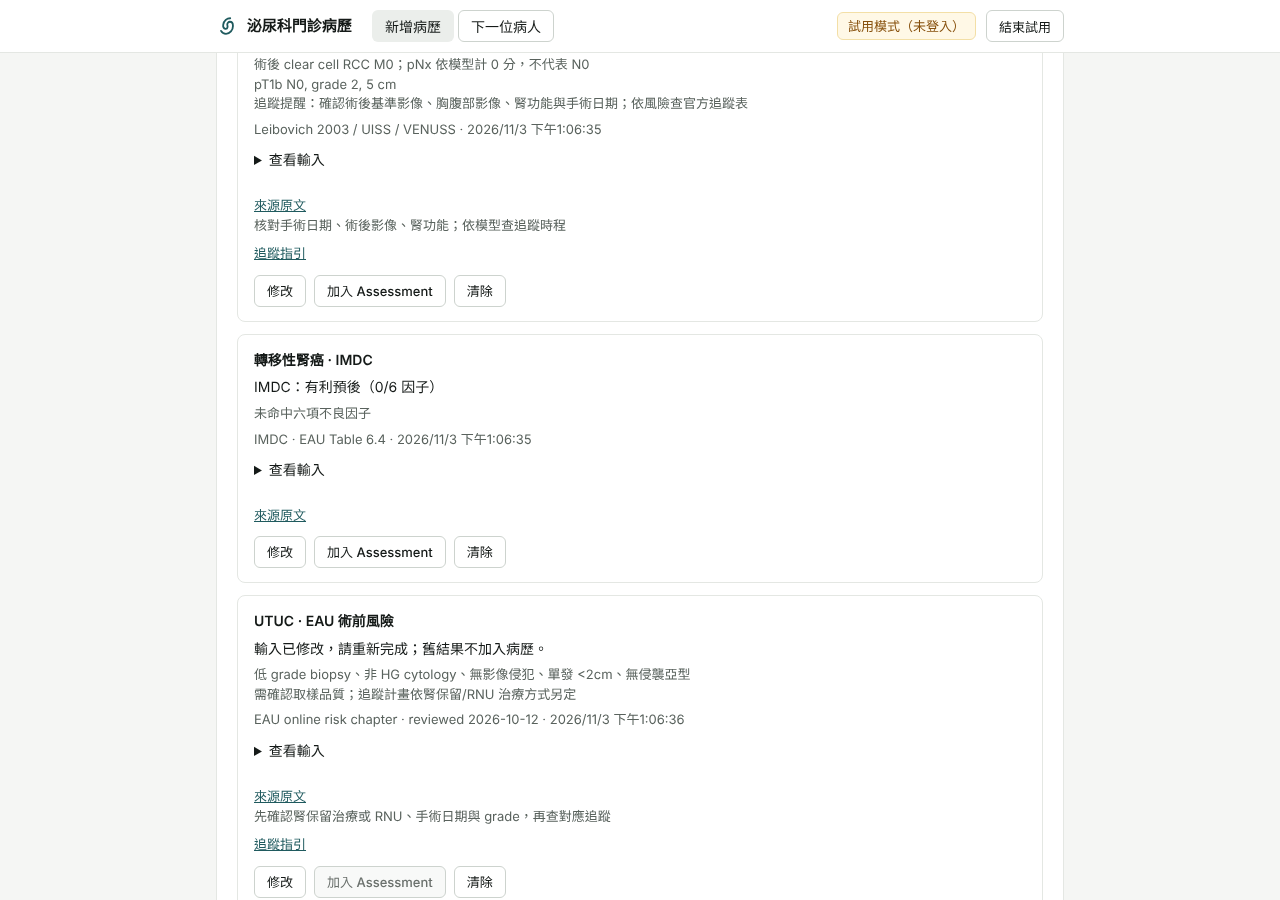
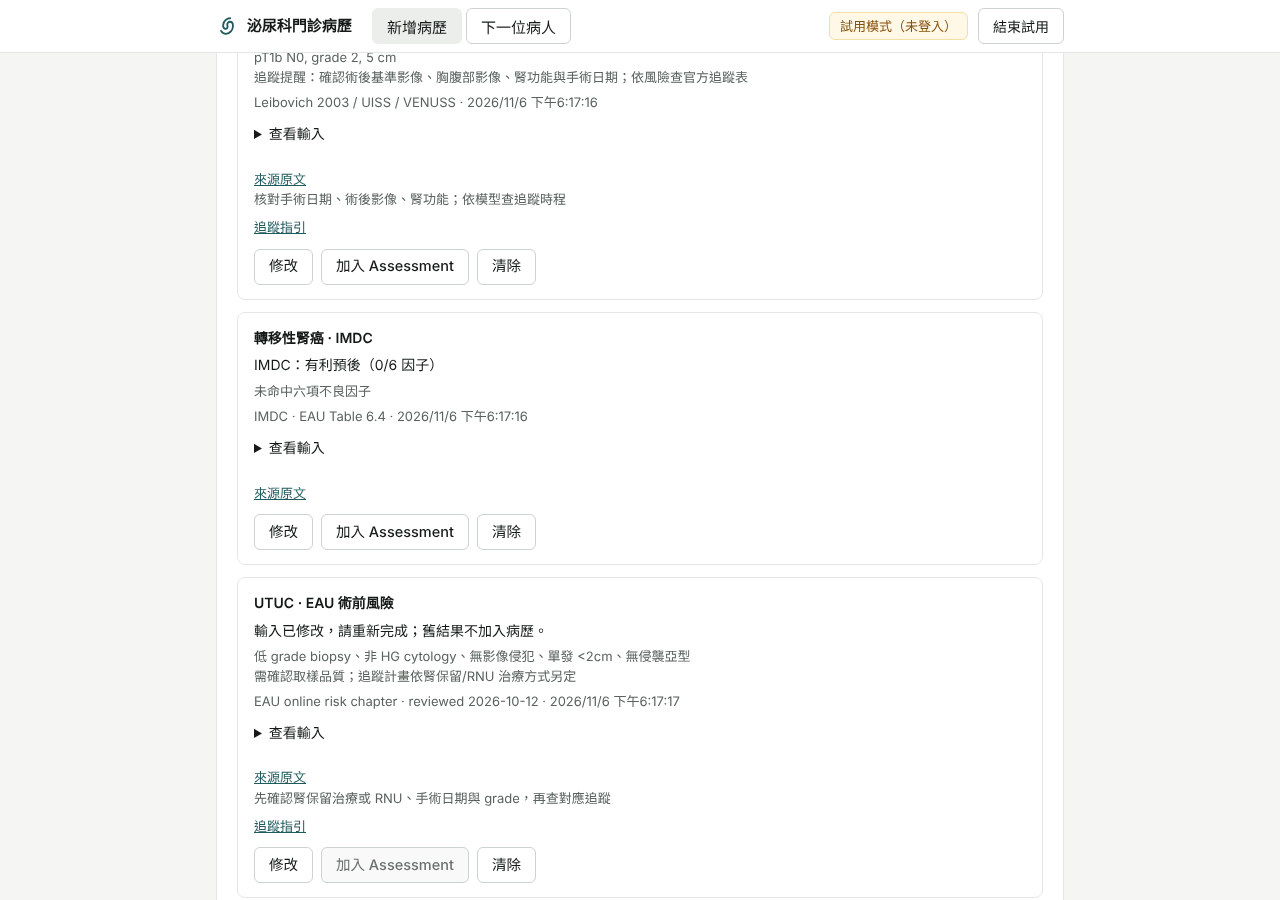
Enlarge button text and lay questionnaire answers on an even grid
- Buttons read about 1-1.5px larger with matching heights: top-bar tabs
  and logout 15/14px at 36px, chief-complaint cards 15.5px, questionnaire
  answers 14.5px, quick-add chips 14.5px, secondary actions 15px at 42px,
  Generate 17px at 52px, login 16px, risk-tool toolbar/cards 14.5px and
  drawer buttons 15.5px.
- Questionnaire answers sit on a 3-column grid (2 on phones) so a sixth
  option no longer wraps onto a line of its own.

Claude-Session: https://claude.ai/code/session_01BUFbyzRua7jEEtjg83DoNz

Changed region(s): [[0.1875, 0.0, 0.8125, 1.0], [0.625, 0.0, 0.8438, 0.0622]]

diff --git a/index.html b/index.html
@@ -107,7 +107,7 @@
   .tab-switch{display:flex;gap:4px;flex-wrap:wrap;}
   .tab-btn{
     background:none;border:1px solid transparent;border-radius:var(--radius-control);
-    height:32px;padding:0 12px;font-size:14px;font-weight:500;color:var(--muted);
+    height:36px;padding:0 14px;font-size:15px;font-weight:500;color:var(--muted);
     transition:background .12s, color .12s;
   }
   .tab-btn:hover{background:var(--raised);color:var(--text);}
@@ -117,14 +117,14 @@
     display:inline-flex;padding:3px;background:var(--raised);border:1px solid var(--border);
     border-radius:calc(var(--radius-control) + 3px);
   }
-  .section .tab-btn{height:32px;}
+  .section .tab-btn{height:36px;}
   .section .tab-btn.active{background:var(--surface);border-color:var(--border);color:var(--accent-ink);}
   #topbar-reset-btn{border-color:var(--control);color:var(--text);background:var(--surface);}
   #topbar-reset-btn:hover{background:var(--raised);}
 
   .logout-btn{
     background:var(--surface);border:1px solid var(--control);border-radius:var(--radius-control);
-    height:32px;padding:0 12px;font-size:13px;color:var(--text);flex:0 0 auto;
+    height:36px;padding:0 14px;font-size:14px;color:var(--text);flex:0 0 auto;
     transition:background .12s, color .12s, border-color .12s;
   }
   .logout-btn:hover{background:var(--raised);}
@@ -226,11 +226,11 @@
   .q-block{border-top:1px solid var(--rule);padding-top:14px;margin-top:14px;}
   .q-block:first-child{border-top:none;margin-top:0;padding-top:0;}
   .q-text{font-size:14px;margin-bottom:8px;line-height:1.45;}
-  .opt-row{display:flex;flex-wrap:wrap;gap:6px;}
+  .opt-row{display:grid;grid-template-columns:repeat(3,minmax(0,1fr));gap:6px;}
   .opt-row label{
-    font-size:13px;font-weight:400;color:var(--text);
+    font-size:14.5px;font-weight:400;color:var(--text);
     border:1px solid var(--control);border-radius:var(--radius-control);
-    min-height:34px;padding:5px 11px;cursor:pointer;
+    min-height:38px;padding:6px 12px;cursor:pointer;
     display:flex;align-items:center;gap:6px;background:var(--surface);
     font-variant-numeric:tabular-nums;
   }
@@ -266,11 +266,11 @@
   .cc-btn{
     text-align:left;background:var(--surface);
     border:1px solid var(--control);border-radius:var(--radius-control);
-    padding:11px 12px;min-height:64px;
-    font-size:14px;font-weight:600;color:var(--text);line-height:1.35;
+    padding:12px 13px;min-height:70px;
+    font-size:15.5px;font-weight:600;color:var(--text);line-height:1.35;
     transition:border-color .12s, background .12s;
   }
-  .cc-btn span{display:block;font-size:12.5px;font-weight:400;color:var(--muted);margin-top:3px;}
+  .cc-btn span{display:block;font-size:13.5px;font-weight:400;color:var(--muted);margin-top:3px;}
   .cc-btn:hover{border-color:var(--accent);}
   /* taste-skill-ignore: selected-state inset, not a resting shadow */
   .cc-btn.active{background:var(--accent-tint);border-color:var(--accent);box-shadow:inset 0 0 0 1px var(--accent);color:var(--accent-ink);}
@@ -306,7 +306,7 @@
   /* text actions: add a row, refresh, export, show/hide */
   .add-row-btn{
     background:none;border:none;color:var(--accent);
-    padding:6px 0;font-size:14px;font-weight:500;margin-top:2px;
+    padding:6px 0;font-size:15px;font-weight:500;margin-top:2px;
   }
   .add-row-btn:hover{text-decoration:underline;text-underline-offset:3px;}
 
@@ -315,8 +315,8 @@
   .quickadd-group .add-row-btn{margin-right:12px;}
   .quick-btn{
     background:var(--surface);border:1px solid var(--control);color:var(--text);
-    border-radius:var(--radius-control);min-height:32px;padding:4px 10px;
-    font-size:13px;line-height:1.3;transition:background .12s, border-color .12s;
+    border-radius:var(--radius-control);min-height:36px;padding:5px 12px;
+    font-size:14.5px;line-height:1.3;transition:background .12s, border-color .12s;
   }
   .quick-btn:hover{border-color:var(--accent);background:var(--raised);}
   .quick-btn:active{background:var(--accent-tint);}
@@ -326,7 +326,7 @@
 
   /* ---------- the primary action and the note ---------- */
   .generate-btn{
-    width:100%;height:48px;font-size:16px;font-weight:600;
+    width:100%;height:52px;font-size:17px;font-weight:600;
     background:var(--accent);color:#fff;border:none;border-radius:var(--radius-control);
     margin:4px 0 var(--gap);transition:background .12s;
   }
@@ -346,7 +346,7 @@
   .copy-icon-btn{
     display:inline-flex;align-items:center;justify-content:center;gap:6px;
     background:var(--surface);border:1px solid var(--control);border-radius:var(--radius-control);
-    height:30px;min-width:30px;padding:0 9px;font-size:13px;color:var(--text);line-height:1;
+    height:34px;min-width:34px;padding:0 11px;font-size:14px;color:var(--text);line-height:1;
     transition:background .12s;
   }
   .copy-icon-btn:hover{background:var(--raised);}
@@ -355,8 +355,8 @@
   /* secondary and tertiary buttons share one height */
   .copy-btn, .save-btn, .reset-btn{
     display:inline-flex;align-items:center;justify-content:center;
-    height:38px;padding:0 14px;margin-top:12px;margin-left:0;margin-right:8px;
-    border-radius:var(--radius-control);font-size:14px;font-weight:500;
+    height:42px;padding:0 16px;margin-top:12px;margin-left:0;margin-right:8px;
+    border-radius:var(--radius-control);font-size:15px;font-weight:500;
     background:var(--surface);border:1px solid var(--control);color:var(--text);
     transition:background .12s;
   }
@@ -383,8 +383,8 @@
   .login-card p{font-size:14px;color:var(--muted);margin:0 0 20px;}
   .login-card input{margin-bottom:10px;}
   .login-btn{
-    width:100%;height:44px;background:var(--accent);color:#fff;border:none;
-    border-radius:var(--radius-control);font-size:15px;font-weight:600;transition:background .12s;
+    width:100%;height:48px;background:var(--accent);color:#fff;border:none;
+    border-radius:var(--radius-control);font-size:16px;font-weight:600;transition:background .12s;
   }
   .login-btn:hover{background:var(--accent-ink);}
   .login-error{color:var(--negative);font-size:13px;margin-top:10px;}
@@ -438,10 +438,11 @@
     .demo-banner{padding:3px 7px;}
     .logout-btn{padding:0 10px;}
     .section .tab-switch{display:flex;flex-wrap:nowrap;}
-    .section .tab-btn{flex:1 1 0;padding:0 8px;font-size:13px;white-space:nowrap;}
+    .section .tab-btn{flex:1 1 0;padding:0 6px;font-size:14px;white-space:nowrap;}
     #tab-note-view > header, #tab-records-view > header{padding:20px 16px 16px;}
     #tab-note-view > header h1, #tab-records-view > header h1{font-size:21px;}
     .check-grid{grid-template-columns:1fr;}
+    .opt-row{grid-template-columns:repeat(2,minmax(0,1fr));}
     .redflag-box .check-grid{grid-template-columns:1fr;}
     .soap-header{padding:14px var(--pad) 12px;}
     .copy-btn, .save-btn, .reset-btn{flex:1 1 auto;}
@@ -450,7 +451,7 @@
 <script src="https://www.gstatic.com/firebasejs/10.13.0/firebase-app-compat.js"></script>
 <script src="https://www.gstatic.com/firebasejs/10.13.0/firebase-auth-compat.js"></script>
 <script src="https://www.gstatic.com/firebasejs/10.13.0/firebase-firestore-compat.js"></script>
-<link rel="stylesheet" href="assets/clinical-tools.css?v=20261103-1">
+<link rel="stylesheet" href="assets/clinical-tools.css?v=20261104-1">
 </head>
 <body>
 

diff --git a/assets/clinical-tools.css b/assets/clinical-tools.css
@@ -4,8 +4,8 @@
 .clinical-toolbar{display:flex;flex-wrap:wrap;gap:6px;margin:12px 0}
 .clinical-toolbar button{
   border:1px solid var(--control,#cdd3ce);border-radius:var(--radius-control,6px);
-  min-height:34px;padding:5px 12px;background:var(--surface,#fff);color:var(--text,#151a18);
-  font:inherit;font-size:13px;font-weight:500;cursor:pointer;transition:background .12s,border-color .12s
+  min-height:38px;padding:6px 14px;background:var(--surface,#fff);color:var(--text,#151a18);
+  font:inherit;font-size:14.5px;font-weight:500;cursor:pointer;transition:background .12s,border-color .12s
 }
 .clinical-toolbar button:hover{border-color:var(--accent,#1f5a5e);background:var(--raised,#f8f9f8)}
 
@@ -20,8 +20,8 @@
 .clinical-card .clinical-actions{display:flex;flex-wrap:wrap;gap:8px;margin-top:10px}
 .clinical-card button{
   border:1px solid var(--control,#cdd3ce);border-radius:var(--radius-control,6px);
-  height:32px;padding:0 12px;background:var(--surface,#fff);color:var(--text,#151a18);
-  font:inherit;font-size:13px;font-weight:500;cursor:pointer
+  height:36px;padding:0 14px;background:var(--surface,#fff);color:var(--text,#151a18);
+  font:inherit;font-size:14.5px;font-weight:500;cursor:pointer
 }
 .clinical-card button:hover{background:var(--raised,#f8f9f8)}
 .clinical-card button:disabled{color:var(--faint,#6b716d);background:var(--raised,#f8f9f8);cursor:default}
@@ -53,7 +53,7 @@
   padding:14px 0 18px;margin-top:auto;border-top:1px solid var(--rule,#eef0ed)
 }
 .clinical-drawer button{
-  font:inherit;font-size:14px;font-weight:500;height:40px;padding:0 16px;cursor:pointer;
+  font:inherit;font-size:15.5px;font-weight:500;height:44px;padding:0 18px;cursor:pointer;
   border:1px solid var(--control,#cdd3ce);border-radius:var(--radius-control,6px);
   background:var(--surface,#fff);color:var(--text,#151a18)
 }
